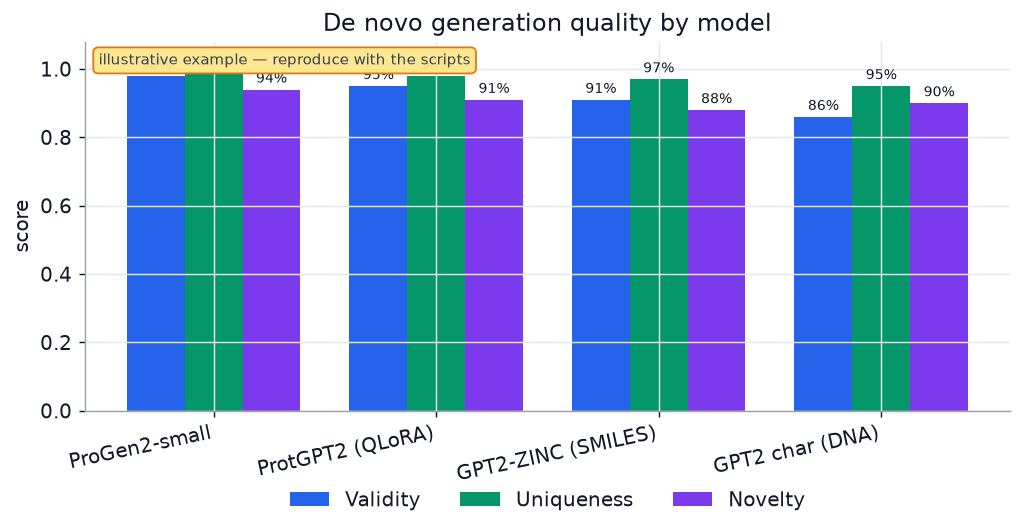
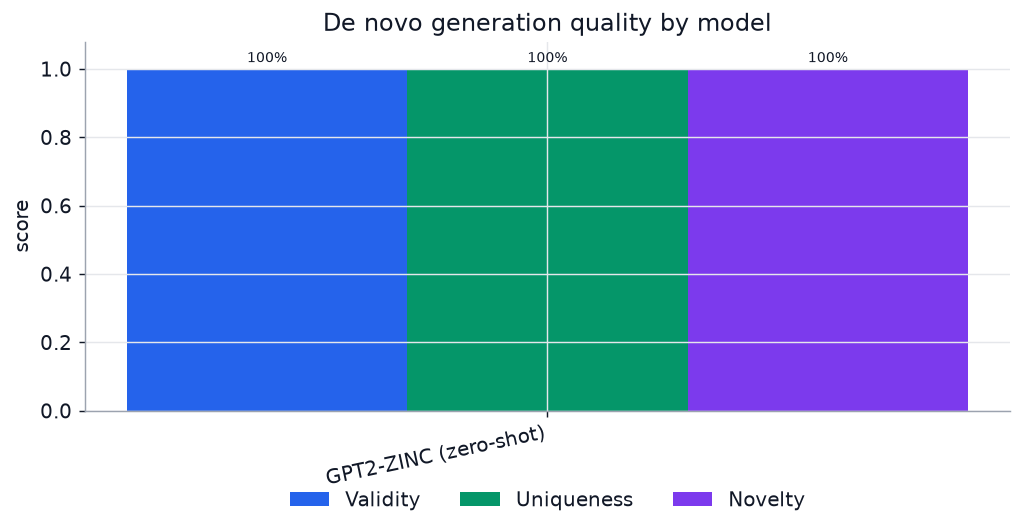
Add real benchmark results: GPT2-ZINC 100% valid/unique/novel, 0.85 diversity

diff --git a/README.md b/README.md
@@ -205,6 +205,25 @@ generate:
   num_samples: 1000
 ```
 
+## Benchmark results
+
+De novo small-molecule generation with **GPT2-ZINC (87M, zero-shot)** — 1,000
+generated SMILES scored against a 50k-molecule ZINC reference set (RDKit metrics):
+
+| Model | Samples | Validity | Uniqueness | Novelty | Diversity |
+|-------|---------|----------|------------|---------|-----------|
+| GPT2-ZINC (zero-shot) | 1,000 | **100%** | **100%** | **100%** | **0.85** |
+
+![Benchmark](docs/assets/benchmark.png)
+
+Reproduce:
+
+```bash
+python scripts/download_smiles.py --max 50000 -o data/zinc.txt
+denovo generate -c configs/molecule_benchmark.yaml -m entropy/gpt2_zinc_87m -n 1000 -o generated/base.txt
+denovo evaluate -c configs/molecule_benchmark.yaml -i generated/base.txt
+```
+
 ## Metrics
 
 `denovo evaluate` reports the field-standard de novo metrics: